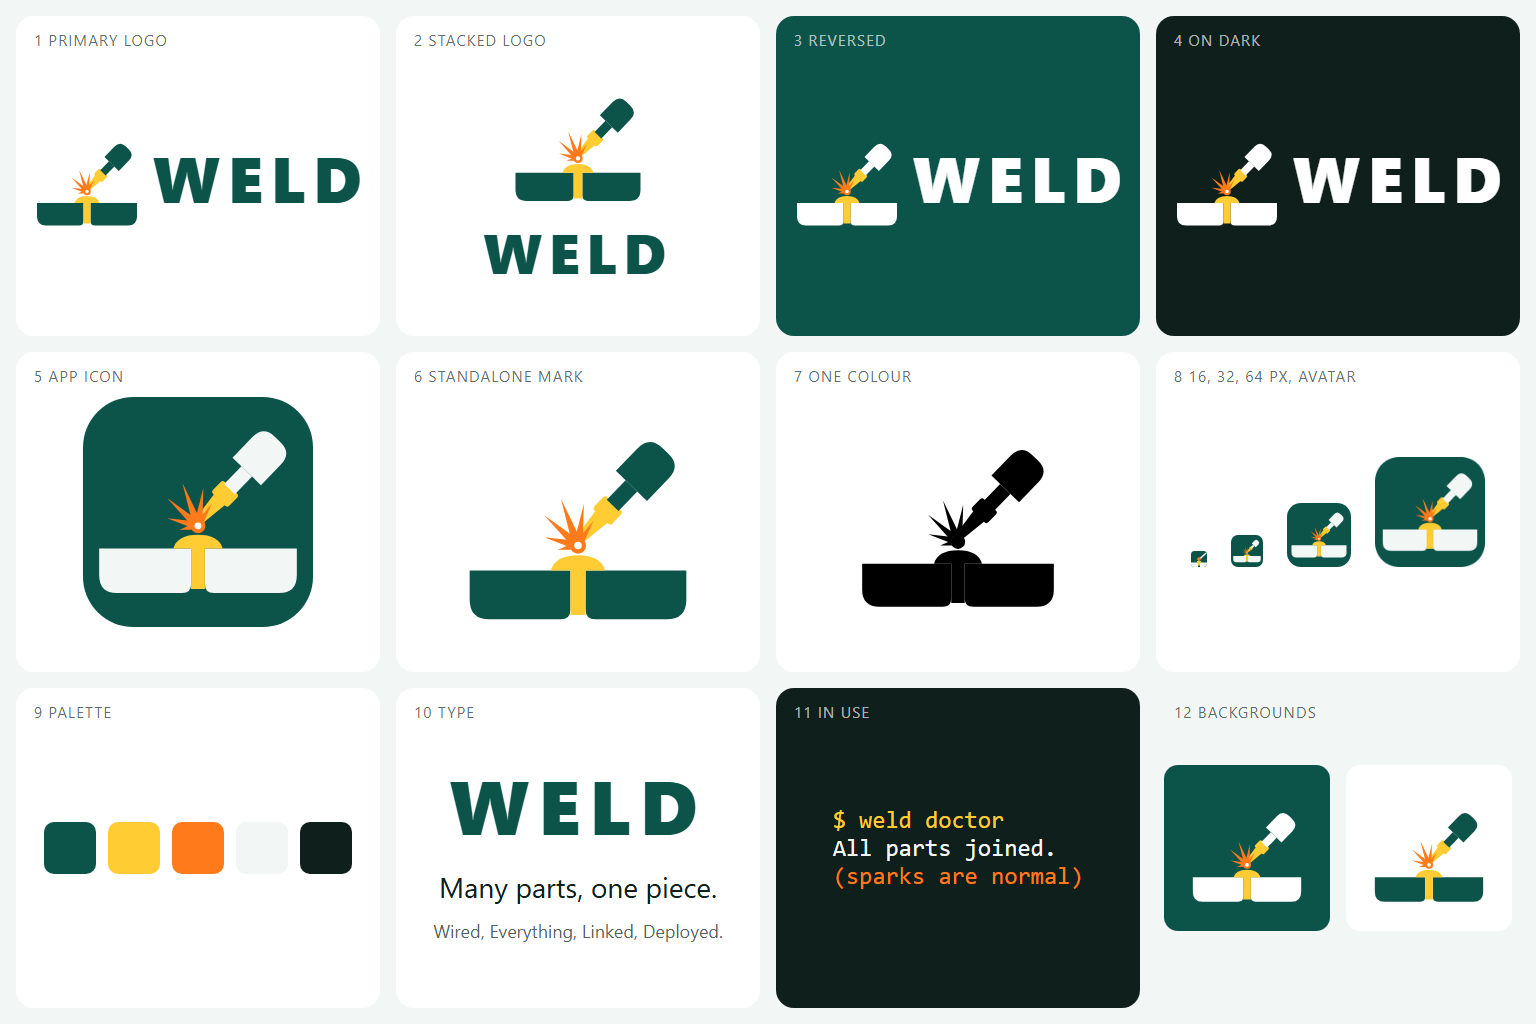
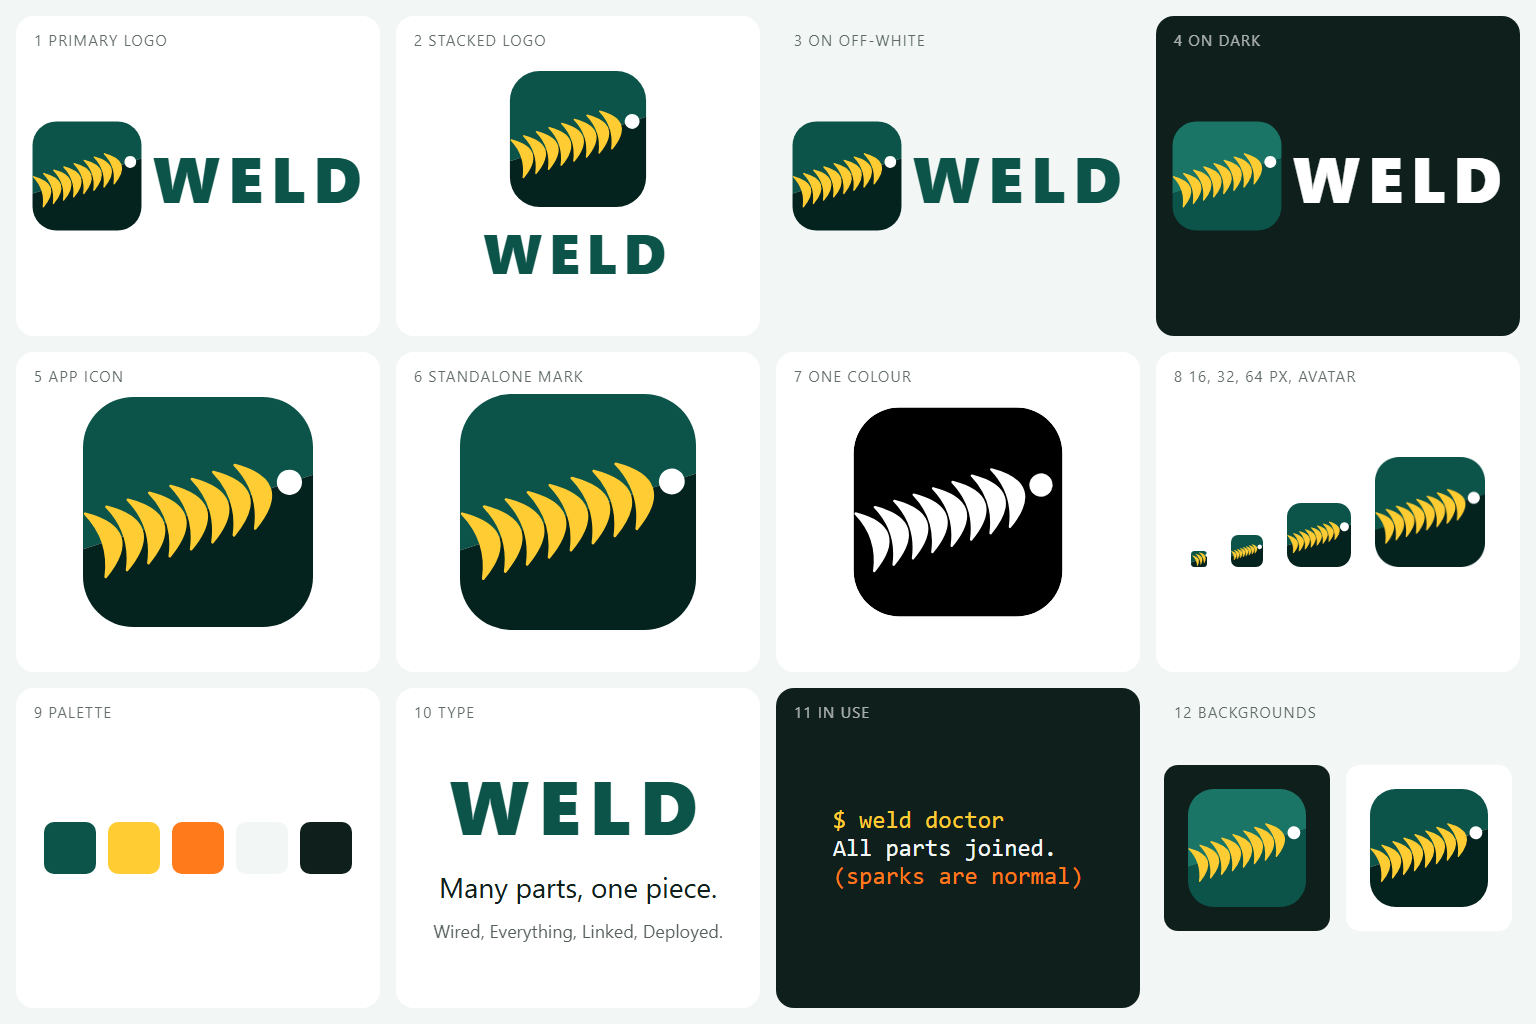
Redraw WELD mark as a TIG weld bead: gold ripples along a seam, white-hot puddle

diff --git a/site/brand/README.md b/site/brand/README.md
@@ -1,21 +1,23 @@
 # WELD brand files
 
-**The mark is a torch laying a weld bead.** Two plates sit side by side, a gold bead fills the joint, and a welding
-torch comes in from the upper right with a spark burst at its tip. Many parts, one piece. There is no letterform in it:
-the mark is deliberately nothing like the Wayne State W, which is a protected university mark.
+**The mark is the weld bead itself.** A good TIG weld, seen from above, is a row of overlapping crescent ripples, and
+every welder knows it on sight. The tile is split along a slanted seam into two green fields, a row of eight gold
+ripples is laid down the seam, and a white-hot dot sits at the leading end: the puddle. Many parts, one piece, drawn
+literally. There is no letterform in it, so nothing reads as the Wayne State W, which is a protected university mark.
+It holds at 32 px as a gold seam joining two halves, and it animates naturally: the ripples lay down one by one.
 
-Why a torch and not a letter: the bead across two plates is the whole idea, and a torch with sparks says "welding" at a
-glance, even at 32 px. The spark is the one hot accent; everything else is Wayne State green, gold and off-white.
-(Yes, the sparks are normal. `weld doctor` would worry if they were not.)
+(The first torch-and-plates attempt looked like an eyedropper over an open book. We do not talk about the eyedropper.
+The bead is also, strictly, a stack of dimes, minus the money.)
 
 ## Colours
 | Role | Colour |
 |---|---|
-| Plates and torch on a light background, the tile | Wayne State green `#0C5449` |
-| The spark (the only accent) | Hot orange `#FF7A1A`, white core |
-| The weld bead and torch nozzle (the only gold) | Wayne State gold `#FFCC33` |
+| The upper plate (field) | Wayne State green `#0C5449` |
+| The lower plate (field) | Deep green `#04231E`, a shade of the same green |
+| The puddle | White `#FFFFFF`. Orange `#FF7A1A` is reserved as the one optional hot accent and is not in the mark today |
+| The weld bead (the only gold) | Wayne State gold `#FFCC33` |
 | Plates on dark backgrounds | White `#FFFFFF` |
-| Light surface, plates and torch on the tile | Off-white `#F2F7F6` |
+| Light surface | Off-white `#F2F7F6` |
 | Dark surface, terminal | Near-black `#0F1F1C` |
 
 Gold never sits behind white text. The bead is always gold, except in the one-colour mark.
@@ -23,36 +25,37 @@ Gold never sits behind white text. The bead is always gold, except in the one-co
 ## Files
 | File | Use |
 |---|---|
-| `weld-mark.svg` | The mark on light backgrounds: green plates and torch, gold bead and nozzle, orange spark |
-| `weld-mark-white.svg` | The mark on dark or green backgrounds: white plates and torch |
-| `weld-mark-mono.svg` | One colour (`currentColor`), for print and single-ink use. Inline it; as an `<img>` it draws black |
-| `weld-mark-animated.svg` | Front-page motion. The torch drops in, a spark flashes once, and the bead rises across the joint. About 1.2 seconds, plays once. Plates and torch follow light and dark. With `prefers-reduced-motion: reduce` the animation is off and the page shows the finished mark minus the spark |
-| `weld-tile.svg` | The app icon: the mark on a rounded green tile, plates and torch in off-white |
-| `weld-favicon.svg` | The tile at 32 and 64 px |
-| `weld-favicon-16.svg` | Hand-hinted on the 16 px grid. One unit is one pixel: plates, bead, torch bar and a spark |
+| `weld-mark.svg` | The mark on light backgrounds: green fields, gold bead, white puddle, rounded square |
+| `weld-mark-white.svg` | The mark on dark backgrounds: the fields are lifted to a lighter green so the square holds against near-black |
+| `weld-mark-mono.svg` | One colour (`currentColor`): the rounded square with the ripples and puddle knocked out. Inline it; as an `<img>` it draws black |
+| `weld-mark-animated.svg` | Front-page motion. The ripples lay down one by one along the seam, then the puddle pulses once. About 2.5 seconds, plays once. With `prefers-reduced-motion: reduce` it shows the finished mark |
+| `weld-tile.svg` | The app icon. Same drawing as the mark, on a 512 tile with corner radius 112 |
+| `weld-favicon.svg` | The tile with a larger puddle, for 32 and 64 px |
+| `weld-favicon-16.svg` | A coarser drawing for 16 px: three ripples and a puddle, every shape at least 2 px |
 | `weld-avatar-512.png` | The GitLab project avatar and the Open Graph image base |
 | `favicon-16.png`, `favicon-32.png`, `favicon-64.png`, `favicon.ico` | Browser favicons. The `.ico` holds all three |
 | `weld-board.png` | The 12-panel brand board |
 
 ## Geometry
-Hand-written paths on a 512 unit grid, not traced. Two plates run from x = 56 to 456 with a 28 unit joint at x = 242 to
-270. The bead is one gold path: an arch over the joint that drops into it as a stem. The torch is a single group
-(nozzle, collar, neck, handle) rotated 44 degrees about the nozzle tip at (256, 292). The spark is six tapered rays and
-a round core centred at (256, 300). The tile is the same drawing, scaled 1.1, on a 512 square with corner radius 112.
-No masks, no gradients, no traced bitmaps.
+Hand-written paths on a 512 unit square, not traced. Everything is drawn along the seam axis and then rotated 18
+degrees, so the seam climbs to the right. The two fields are the halves of that axis. Each ripple is one crescent path:
+tips 148 units apart across the seam, outer arc bulging 58 units forward, inner arc 18, so each is 40 thick. Eight of
+them step 50 units apart, with a 6 unit round-joined stroke in the same gold to soften the tips. The puddle is a 28 unit
+circle, 46 units ahead of the last ripple. Four kinds of shape, no gradients, no masks (except the one-colour version),
+no outlines.
 
 ## Clear space
-Keep a tenth of the mark's width clear on every side. The viewBox of each mark SVG already carries that margin.
+Keep a tenth of the mark's width clear on every side. The mark SVGs already carry a 26 unit margin.
 
 ## Rules
-- Never add a letter to the mark, and never redraw it so any part reads as a W. The Wayne State W is not ours.
+- Never add a letter to the mark, and never rework the ripples until any part reads as a W. The Wayne State W is not ours.
 - Never recolour the bead. Gold is the weld.
-- Never add a glow or gradient to the spark. It is flat orange `#FF7A1A` with a white core.
-- Never stretch, rotate or mirror the mark.
+- Never add a glow or gradient to the puddle.
+- Never stretch, mirror or rotate the mark. The weld always travels up and to the right.
 
 ## Motion
-The animation is CSS inside the SVG. The torch slides in from the upper right, the spark flashes once, and the bead
-rises across the joint. Nothing flashes more than once.
+The animation is CSS inside the SVG. Each ripple fades and slides in from behind, 0.16 seconds after the last, and the
+puddle pulses once at the end. Nothing flashes.
 
 ## Rendering
 The PNGs were rendered from the SVGs with headless Edge at 1x. The `.ico` was assembled with Pillow from the three
@@ -60,5 +63,5 @@ favicon PNGs.
 
 ## The board
 `weld-board.png` is composed in code from the real SVGs, so every mark on it is the true mark. It shows primary,
-stacked, reversed and dark logos, app icon, standalone and one-colour marks, favicons, palette, type, `weld doctor` in
+stacked, off-white and dark logos, app icon, standalone and one-colour marks, favicons, palette, type, `weld doctor` in
 use, and backgrounds.
